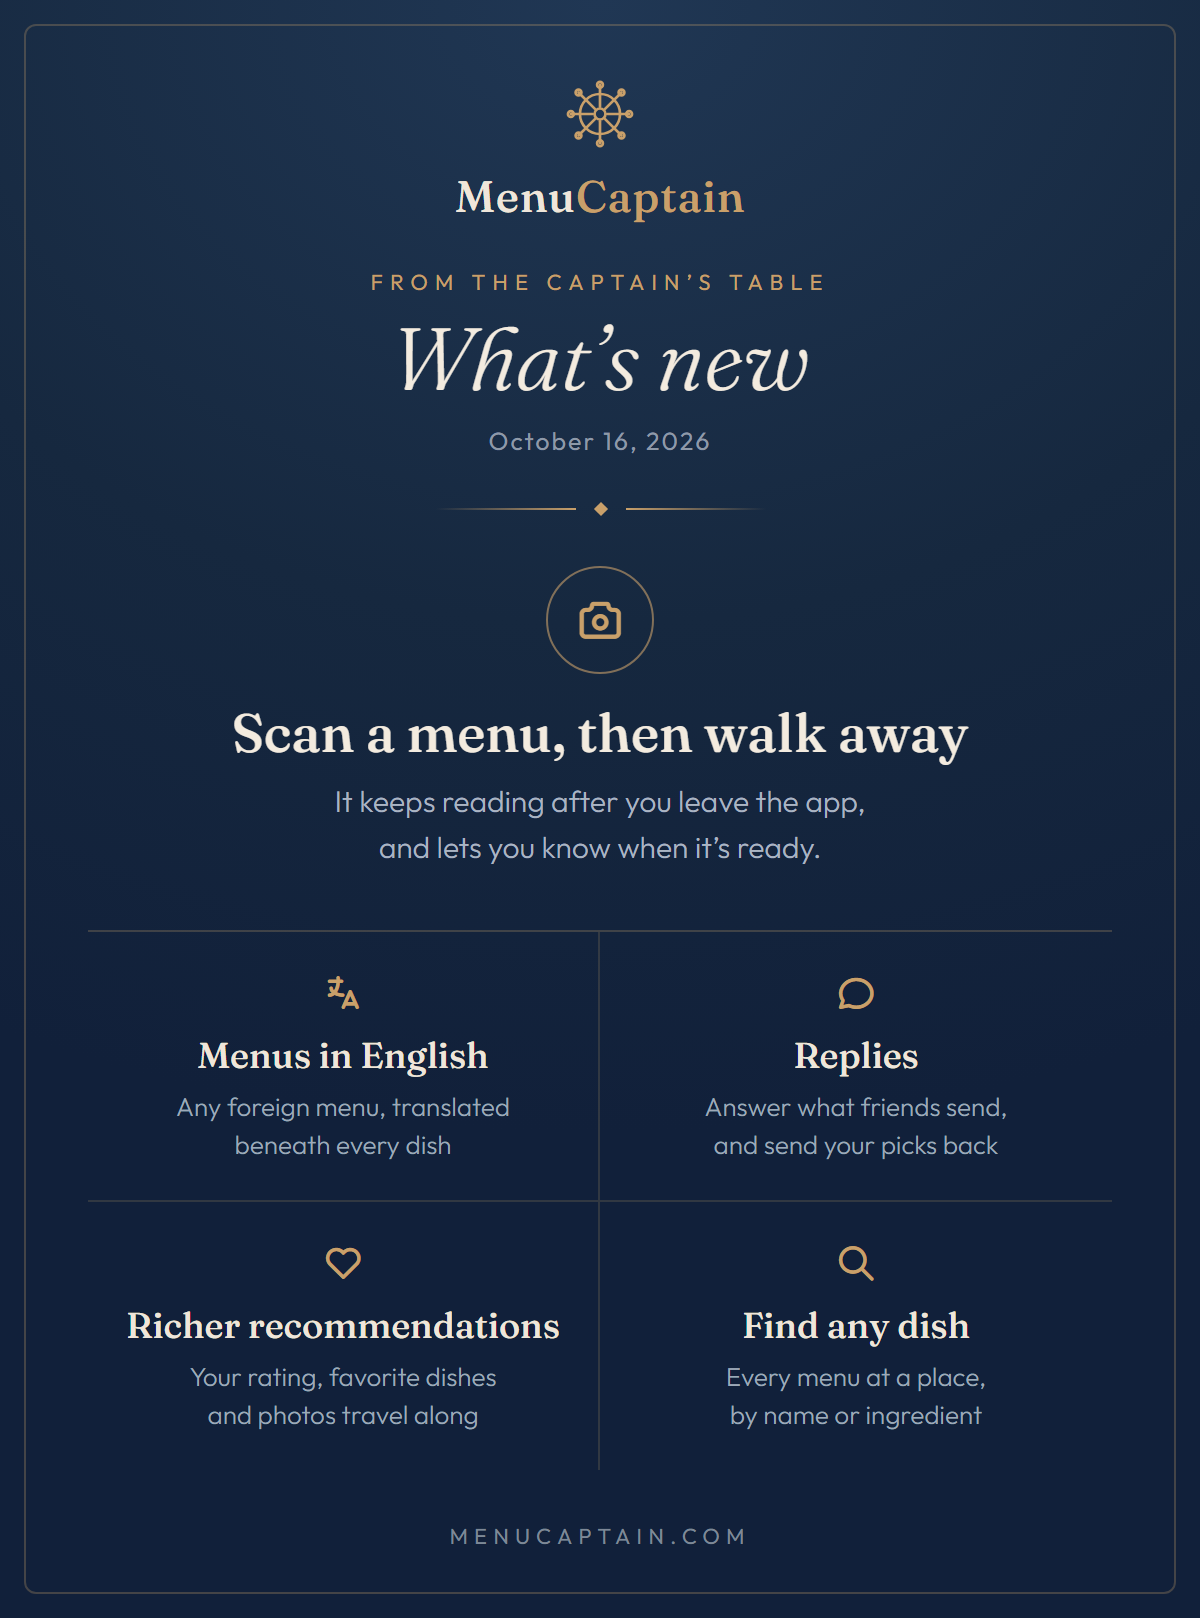
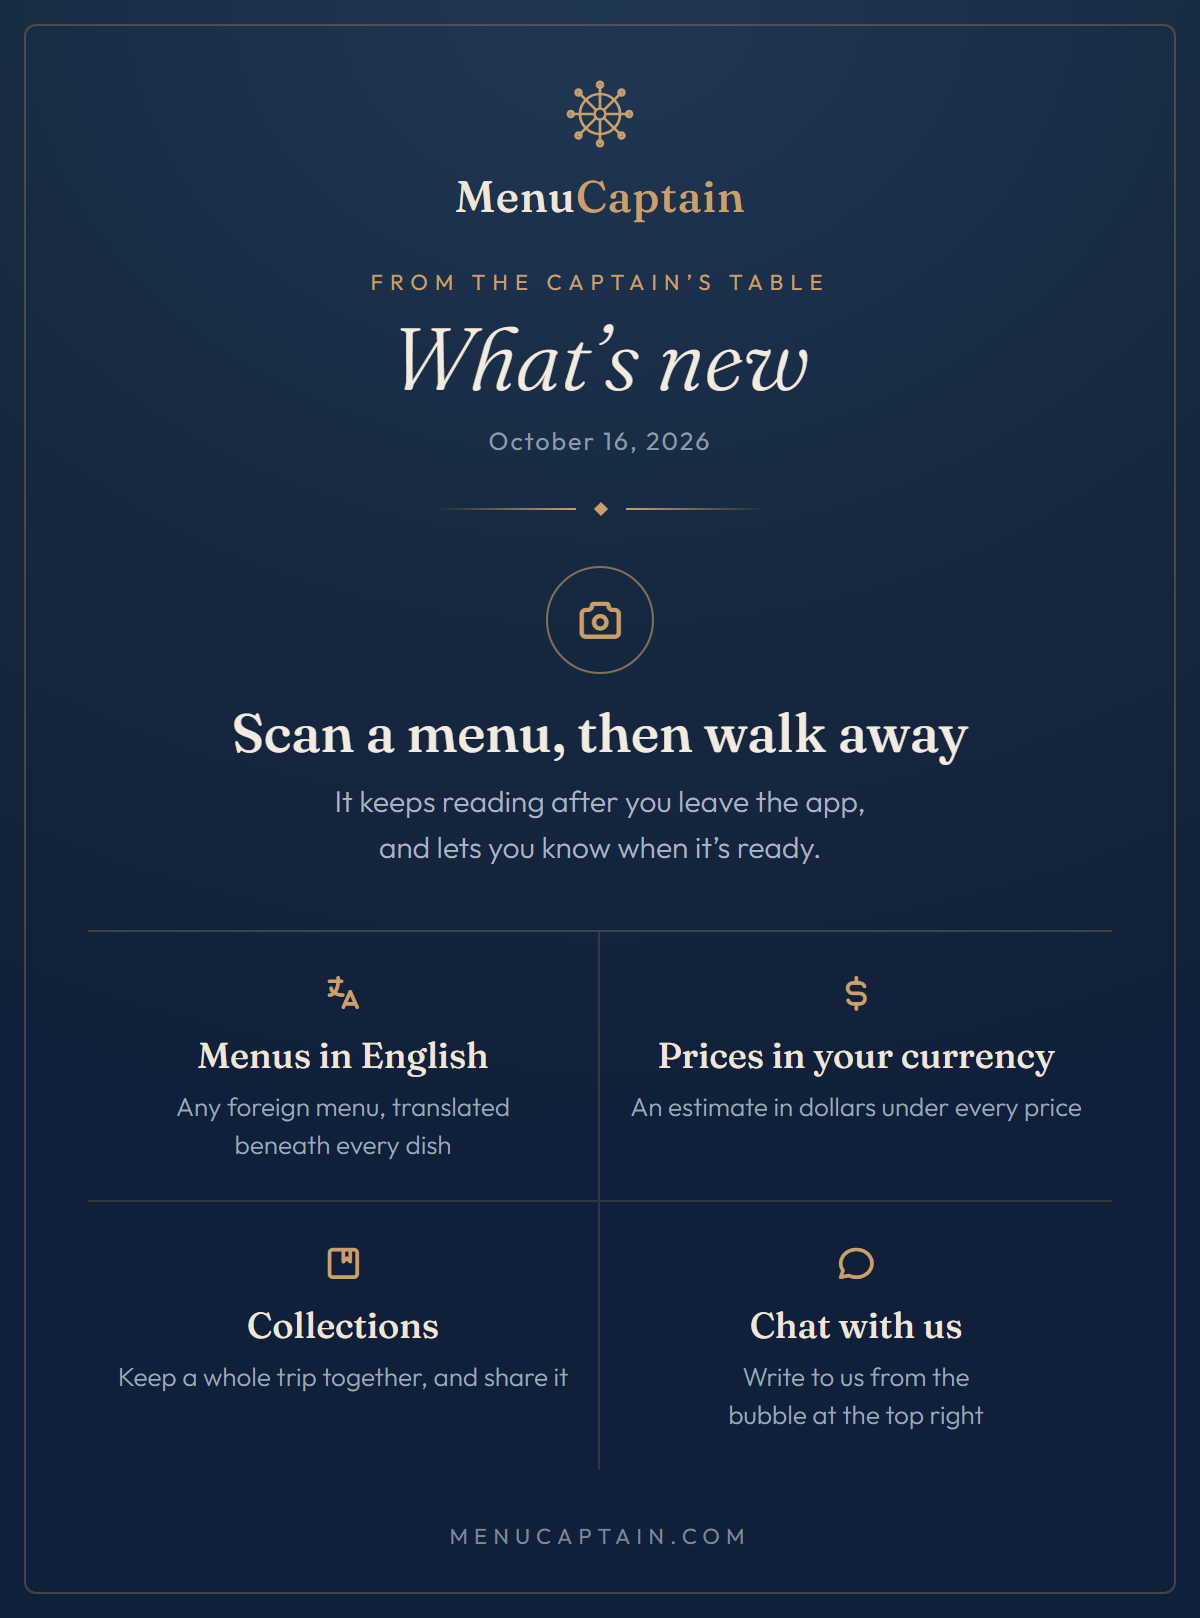
1.552.0: photos open on the first tap; first issue rewritten with Oct 14-16 features, fixes last

Changed region(s): [[0.0925, 0.7726, 0.4625, 0.8962], [0.5242, 0.5871, 0.8942, 0.7108], [0.6167, 0.7726, 0.8325, 0.8962]]

diff --git a/news/2026-10-14-email.html b/news/2026-10-14-email.html
@@ -3,28 +3,42 @@
 <meta name="subject" content="Welcome to the Captain’s Table: scan a menu, then walk away"><title>Welcome to the Captain’s Table: scan a menu, then walk away</title></head>
 <body style="margin:0;padding:0;background:#f3eee6">
 <div style="max-width:600px;margin:0 auto;padding:24px 14px 30px">
-<a href="https://menucaptain.com/welcome.html" style="display:block;text-decoration:none"><img src="https://menucaptain.com/news/2026-10-14.png?v=6dc5bb0c2e" width="600" alt="From the Captain’s Table, what&#x27;s new: Scan a menu, then walk away; Menus in English; Replies; Richer recommendations; Find any dish"
+<a href="https://menucaptain.com/welcome.html" style="display:block;text-decoration:none"><img src="https://menucaptain.com/news/2026-10-14.png?v=dc777bf417" width="600" alt="From the Captain’s Table, what&#x27;s new: Scan a menu, then walk away; Menus in English; Prices in your currency; Collections; Chat with us"
  style="display:block;width:100%;max-width:600px;height:auto;border:0;border-radius:10px"></a>
 <div style="background:#ffffff;border-radius:10px;margin-top:14px;padding:30px 30px 32px;font-family:-apple-system,'Segoe UI',Roboto,Helvetica,Arial,sans-serif;color:#4a443c;font-size:15.5px;line-height:1.65">
 <p style="margin:0 0 14px">Dear Captain,</p>
 <p style="margin:0 0 14px">Welcome to the Captain’s Table. It’s what we call the small circle of people who use MenuCaptain: diners who would rather remember a great meal than review it. You’re one of the very first, and from time to time we’ll write to you here about what’s new: the features we’ve added, the refinements we’ve made, and the occasional idea for getting more from the app.</p>
-<p style="margin:0 0 14px">Here is what arrived this week. It’s already in your app; if you see “Update available”, tap Refresh.</p>
+<p style="margin:0 0 14px">Here is what’s new. It’s already in your app; if you see “Update available”, tap Refresh.</p>
 <h2 style="font-family:Georgia,'Times New Roman',serif;font-weight:normal;font-size:21px;line-height:1.3;color:#211d18;margin:30px 0 8px">Scan a menu, then walk away</h2>
-<p style="margin:0 0 14px">Once your photos are sent, which takes a few seconds, you are free to switch apps or put your phone away. The menu keeps being read, a note at the top of MenuCaptain tells you when it’s ready, and if you haven’t returned two minutes after it finishes, we’ll email you a link. A menu photographed in several pages is now read all at once, so it arrives sooner too.</p>
+<p style="margin:0 0 14px">Reading a menu properly takes time, and a long or complicated one can take a while. So you no longer have to wait for it. Once your photos are sent, switch apps or put your phone away: the menu keeps being read, a note at the top of MenuCaptain tells you when it’s ready, and if you haven’t come back two minutes after it finishes, we’ll email you a link. Scanning is quicker too, because a menu photographed in several pages is now read all at once.</p>
 <h2 style="font-family:Georgia,'Times New Roman',serif;font-weight:normal;font-size:21px;line-height:1.3;color:#211d18;margin:30px 0 8px">Menus in English</h2>
-<p style="margin:0 0 14px">A menu in Spanish, Italian or any other language now offers Show English. The original stays exactly as printed, with the English beneath each dish, so you can still point to the original when you order. You can search in English as well: “octopus” finds the pulpo.</p>
+<p style="margin:0 0 14px">A menu in Spanish, Italian or any other language now offers Show English. The original stays exactly as printed, with the English beneath each dish, so you can still point to the original when you order. A dish known by its own name, like crema catalana, gets a short line saying what it usually is. You can search in English as well: “octopus” finds the pulpo.</p>
+<h2 style="font-family:Georgia,'Times New Roman',serif;font-weight:normal;font-size:21px;line-height:1.3;color:#211d18;margin:30px 0 8px">Prices in your currency</h2>
+<p style="margin:0 0 14px">On a menu priced in euros, pounds, yen or another major currency, tap Show in $ and every price gets an estimate in dollars underneath, while the printed price stays the one you point at. Tap the currency to show another instead. Rates are the European Central Bank’s daily reference rates, with the date shown; your card’s rate will differ a little.</p>
+<h2 style="font-family:Georgia,'Times New Roman',serif;font-weight:normal;font-size:21px;line-height:1.3;color:#211d18;margin:30px 0 8px">Collections</h2>
+<p style="margin:0 0 14px">Keep a trip together. In History, start a collection such as “Our honeymoon” with the trip’s dates, and every meal you log between them joins by itself. It opens on a cover photo, then your favorite places and the dishes you loved, then every meal day by day. Leave out the dates to hand-pick any meals you like, and share a whole collection with friends in a tap; it never includes your notes, who you dined with, or what you spent.</p>
+<h2 style="font-family:Georgia,'Times New Roman',serif;font-weight:normal;font-size:21px;line-height:1.3;color:#211d18;margin:30px 0 8px">See what a dish looks like</h2>
+<p style="margin:0 0 14px">When you ask MenuCaptain to explain particular dishes, each one now offers a photo: yours, if you’ve photographed it there; the restaurant’s own, when they publish one; or similar dishes from the web, clearly labeled as not this exact dish.</p>
+<h2 style="font-family:Georgia,'Times New Roman',serif;font-weight:normal;font-size:21px;line-height:1.3;color:#211d18;margin:30px 0 8px">Chat with us</h2>
+<p style="margin:0 0 14px">A chat bubble now sits at the top right of Home, Places, History and You. Tap it to write to us, and we answer right there in the app. A small dot on the bubble means a reply is waiting.</p>
 <h2 style="font-family:Georgia,'Times New Roman',serif;font-weight:normal;font-size:21px;line-height:1.3;color:#211d18;margin:30px 0 8px">Replies</h2>
 <p style="margin:0 0 14px">When a friend sends you a place, a menu or a visit, you can answer with a tap or a few words, and they can write back. If they’ve sent a menu, tick the dishes you’d choose and send your picks back without leaving the app.</p>
 <h2 style="font-family:Georgia,'Times New Roman',serif;font-weight:normal;font-size:21px;line-height:1.3;color:#211d18;margin:30px 0 8px">Richer recommendations</h2>
-<p style="margin:0 0 14px">Sending a place now carries your rating, the dishes you loved and photos from your visits; a single tick leaves the photos out. A shared visit now includes what makes the place special. Select all reaches every friend at once, and the Sharing screen keeps a record of what you’ve sent and to whom.</p>
+<p style="margin:0 0 14px">Sending a place now carries your rating, the dishes you loved and photos from your visits; a single tick leaves the photos out. A shared visit now includes what makes the place special. Select all reaches every friend at once, and photos you share now stay visible for as long as you keep them.</p>
+<h2 style="font-family:Georgia,'Times New Roman',serif;font-weight:normal;font-size:21px;line-height:1.3;color:#211d18;margin:30px 0 8px">Sharing, tidier</h2>
+<p style="margin:0 0 14px">The Sharing screen now leads with what friends have sent you, marks each one Seen, and clears it away once you reply or save it, while still keeping a record of what you’ve sent and to whom. A menu you’ve shared with other diners can be taken back at any time with Stop sharing, and if someone shares a newer menu in place of yours, we’ll let you know by email.</p>
 <h2 style="font-family:Georgia,'Times New Roman',serif;font-weight:normal;font-size:21px;line-height:1.3;color:#211d18;margin:30px 0 8px">Logging a visit</h2>
-<p style="margin:0 0 14px">Dish search now looks through every menu at a place, reads descriptions as well as names, and ignores accents, so “tiramisu” finds Tiramisù. Had a special? Add it, then tap Mark as special, and it reads as a special in gold wherever it appears, including on a visit you share. Each visit now holds up to fifteen photos, and correcting a dish’s name once corrects it on your past visits there as well.</p>
+<p style="margin:0 0 14px">Dish search now looks through every menu at a place, reads descriptions as well as names, and ignores accents, so “tiramisu” finds Tiramisù. Type a section’s name, like “flautas”, and every dish under that heading comes up too. Had a special? Add it, then tap Mark as special, and it reads as a special in gold wherever it appears, including on a visit you share. Each visit now holds up to fifteen photos, and correcting a dish’s name once corrects it on your past visits there as well.</p>
+<h2 style="font-family:Georgia,'Times New Roman',serif;font-weight:normal;font-size:21px;line-height:1.3;color:#211d18;margin:30px 0 8px">Around the app</h2>
+<p style="margin:0 0 14px">Home’s Recently added now says what happened last at each place: a visit you logged, the friend who sent it, or that you added it yourself. Tapping a dietary filter such as Gluten-free on a place gathers matching dishes from every menu there, each labeled with the menu it’s on. Bar is now one of the quick names when you add a menu, beside Drinks and Cocktails. And our welcome page shows how to put MenuCaptain on your Home Screen, on iPhone or Android, so it opens like any other app.</p>
+<h2 style="font-family:Georgia,'Times New Roman',serif;font-weight:normal;font-size:21px;line-height:1.3;color:#211d18;margin:30px 0 8px">Your meals, safely kept</h2>
+<p style="margin:0 0 14px">Every night, your meals, notes and photos are also copied to a second, separate company’s storage, so they stay safe even if our main storage ever had a bad day.</p>
 <h2 style="font-family:Georgia,'Times New Roman',serif;font-weight:normal;font-size:21px;line-height:1.3;color:#211d18;margin:30px 0 8px">Refinements</h2>
-<p style="margin:0 0 14px">The Back button no longer hides behind the clock on things friends send you. Restaurants you add abroad now keep their city. Votes in “Where shall we eat?” are saved as they should be. Suggestions for dishes, and for the people you dined with, no longer cover the page as you type, and signing up is simpler.</p>
+<p style="margin:0 0 14px">Each dish on a visit now sits on its own card, so it’s clear which notes belong to which dish. Refresh has moved off the menu rows, where it was easy to tap by accident, and now asks before replacing a menu. A restaurant’s story reads as proper paragraphs. Restaurants you add abroad keep their town, including in Malta, and place search ignores accents, so “enchante” finds Enchanté. Suggestions for dishes, and for the people you dined with, no longer cover the page as you type. The Back button no longer hides behind the clock on things friends send you. Votes in “Where shall we eat?” are saved as they should be. A MenuCaptain icon added from our welcome page now opens the app itself, and signing up is simpler.</p>
 <h2 style="font-family:Georgia,'Times New Roman',serif;font-weight:normal;font-size:21px;line-height:1.3;color:#211d18;margin:30px 0 8px">Add the founder as a friend</h2>
 <p style="margin:0 0 14px">Chris Gramlich built MenuCaptain and would love to see where you’re eating. <a href="https://menucaptain.com/?inv=cjgramlich&amp;nm=Chris%20Gramlich" style="color:#9a6a2f;font-weight:600">Tap here to add him as a friend</a>, or in the app open You, then Friends, and add <b style="color:#211d18">@cjgramlich</b>.</p>
 <h2 style="font-family:Georgia,'Times New Roman',serif;font-weight:normal;font-size:21px;line-height:1.3;color:#211d18;margin:30px 0 8px">Your ideas shape MenuCaptain</h2>
-<p style="margin:0 0 14px">Spotted something that isn’t quite right, or wish MenuCaptain did something it doesn’t yet? We read every note. In the app, open Settings (the gear at the top of Home) and tap Share feedback, then choose a bug, a feature request or a suggestion; it comes straight to us. Or simply reply to this email.</p>
+<p style="margin:0 0 14px">Spotted something that isn’t quite right, or wish MenuCaptain did something it doesn’t yet? We read every note. Tap the chat bubble at the top right to write to us, or open Settings (the gear at the top of Home) and tap Share feedback to send a bug, a feature request or a suggestion. Or simply reply to this email.</p>
 <p style="margin:0 0 14px">Bon appétit,<br>The MenuCaptain team</p>
 <div style="text-align:center;margin:30px 0 4px"><a href="https://menucaptain.com/welcome.html" style="display:inline-block;background:#14253b;color:#ECE4D8;text-decoration:none;font-size:14px;letter-spacing:.04em;padding:13px 26px;border-radius:999px">See everything MenuCaptain does</a></div>
 </div>

diff --git a/index.html b/index.html
@@ -1232,7 +1232,7 @@ var LZString=function(){var r=String.fromCharCode,o="ABCDEFGHIJKLMNOPQRSTUVWXYZa
 const { useState, useEffect, useRef, useCallback } = React;
 
 /* ---- constants ------------------------------------------------ */
-const APP_VERSION   = "1.551.0";
+const APP_VERSION   = "1.552.0";
 // True when running inside the Capacitor store build (the native shell
 // injects window.Capacitor into its webview; browsers never have it). Used to
 // hide PWA-isms - like Add-to-Home-Screen - that make no sense in a real app.
@@ -22111,21 +22111,33 @@ function VisitForm({restaurants, menus, visits, collections, locations, onSaveRe
   // Under Capacitor this is the system camera or photo picker, which is a
   // different experience from a file input and the reason the permission
   // prompt names the app rather than the web view.
-  async function addPhotosFrom(source){
-    if (photoBusy) return;
+  //
+  // In the browser and the Home Screen app the file picker opens INSIDE the
+  // tap, synchronously (2026-10-16, Chris: "Why does some picking photos take
+  // multiple clicks"). This used to await nativePickImages first, even with no
+  // native plugin to ask, and only then click the input: iPhone Safari only
+  // opens a file picker while it still counts the tap as the user's, so a
+  // click after an await can be silently dropped, and the next tap worked.
+  // The road not taken: keeping one async path and hoping the tap survives.
+  // A tap during "Preparing photo" used to be ignored without a word, which
+  // also reads as "it didn't take"; now it says why.
+  function addPhotosFrom(source){
+    if (photoBusy){ toast("Still adding the photos you picked. One moment."); return; }
     const room = Math.max(0, MAX_PHOTOS - photoSlots.length);
     if (!room) return;
-    const urls = await nativePickImages({
-      source: source, multiple: source !== "camera", limit: room,
-      title: "Add a photo of this meal",
-    });
-    if (!urls){                                  // no plugin, or cancelled
-      if (hasNative("Camera")) return;           // cancelled: leave them be
+    if (!hasNative("Camera")){
       (source === "camera" ? photoCamRef : photoFileRef).current.click();
       return;
     }
-    buzz();
-    await ingestVisitPhotoFiles(urls.map((u,i)=> dataUrlToFile(u, "photo-" + i + ".jpg")).filter(Boolean));
+    (async ()=>{
+      const urls = await nativePickImages({
+        source: source, multiple: source !== "camera", limit: room,
+        title: "Add a photo of this meal",
+      });
+      if (!urls) return;                         // cancelled: leave them be
+      buzz();
+      await ingestVisitPhotoFiles(urls.map((u,i)=> dataUrlToFile(u, "photo-" + i + ".jpg")).filter(Boolean));
+    })();
   }
 
   async function onVisitPhotoFiles(e){

diff --git a/sw.js b/sw.js
@@ -26,7 +26,7 @@
    - everything else (other API, list pages) -> default network
 */
 
-const VERSION = "1.551.0";                 // keep in lockstep with APP_VERSION
+const VERSION = "1.552.0";                 // keep in lockstep with APP_VERSION
 const SHELL_CACHE = "mc-shell-" + VERSION;
 const ASSET_CACHE = "mc-assets-" + VERSION;
 const DATA_CACHE  = "mc-data-v1";           // user collections; UN-versioned so it

diff --git a/HANDOFF.md b/HANDOFF.md
@@ -22,9 +22,9 @@ Live at **menucaptain.com**. Installable as a PWA; a Capacitor shell exists for 
 
 | Piece | Version | Where |
 |---|---|---|
-| Web app | **1.551.0** | menucaptain.com (GitHub Pages), confirmed live |
+| Web app | **1.552.0** | menucaptain.com (GitHub Pages), confirmed live |
 | Backend | **0.149.0** | Railway, `/health` reports `db connected` |
-| Native shell | **1.551.0** | built and pushed, **not yet submitted to any store** |
+| Native shell | **1.552.0** | built and pushed, **not yet submitted to any store** |
 
 All three repos are clean and level with `origin/main`. Backend `/health` reports ai, places,
 stripe and Serper all configured.
@@ -393,6 +393,21 @@ own word and travels in the share payload; `house_story` is the restaurant's mar
 copyrighted text, so it is private and is NOT in `buildPlacePayload`. Chris chose this over
 filling About this place automatically and over keeping it manual. Both cards carry an info icon
 instead of explanatory text, at his request.
+
+### Photos open on the first tap (2026-10-16, app 1.552.0)
+
+Chris: "Why does some picking photos take multiple clicks to get it to adopt". The visit form's
+Camera and Library tiles called `addPhotosFrom`, which awaited `nativePickImages()` before clicking
+the hidden file input, even in the browser where there is no native plugin and the call returns
+null at once. iPhone Safari opens a file picker only while it still treats the tap as the user's,
+so a `click()` after an `await` can be dropped silently, and the second tap works. Now the browser
+and Home Screen app click the input synchronously inside the tap; only the Capacitor build awaits
+the native picker. A tap while "Preparing photo" is running used to be ignored without a word; it
+now toasts "Still adding the photos you picked. One moment." Every other photo input in the app
+already clicked synchronously (checked by grep). Tests: a Node test slicing the real function
+(4 of 6 failed on 1.551.0, 6 of 6 pass) and a Playwright run (one tap on Library and on Camera
+opens the picker; a picked photo appears). Not yet confirmed on Chris's iPhone, so the first issue
+does not claim it; it is in `next-issue-notes.md`.
 
 ### Documentation catch-up, and the RELEASE DOCS GATE (2026-10-16, app 1.551.0)
 

diff --git a/BRIEFING.md b/BRIEFING.md
@@ -45,7 +45,7 @@ find.
 
 | Figure | Value | As of |
 |---|---|---|
-| Web app | v1.551.0, live | 2026-10-16 |
+| Web app | v1.552.0, live | 2026-10-16 |
 | Backend | v0.149.0, live | 2026-10-16 |
 | Front end | a single HTML file, ~1.41 MB, no build step | 2026-09-25 |
 | Backend | ~7,600 lines of Python (FastAPI) | 2026-09-25 |
